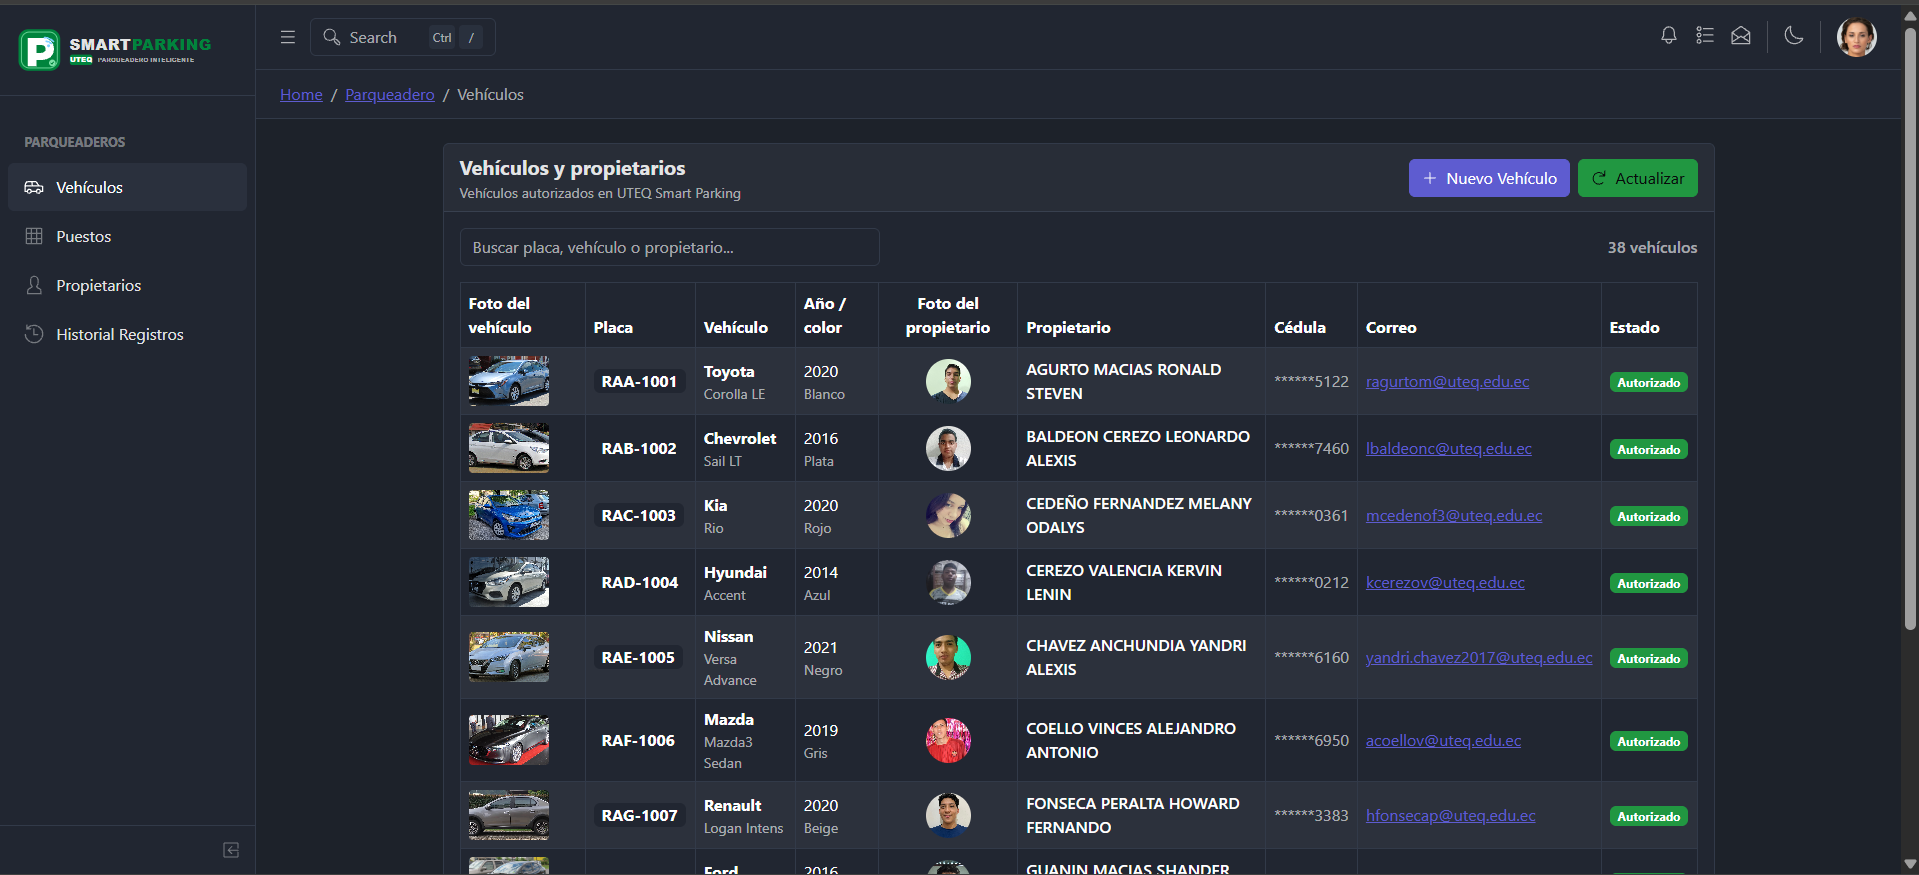
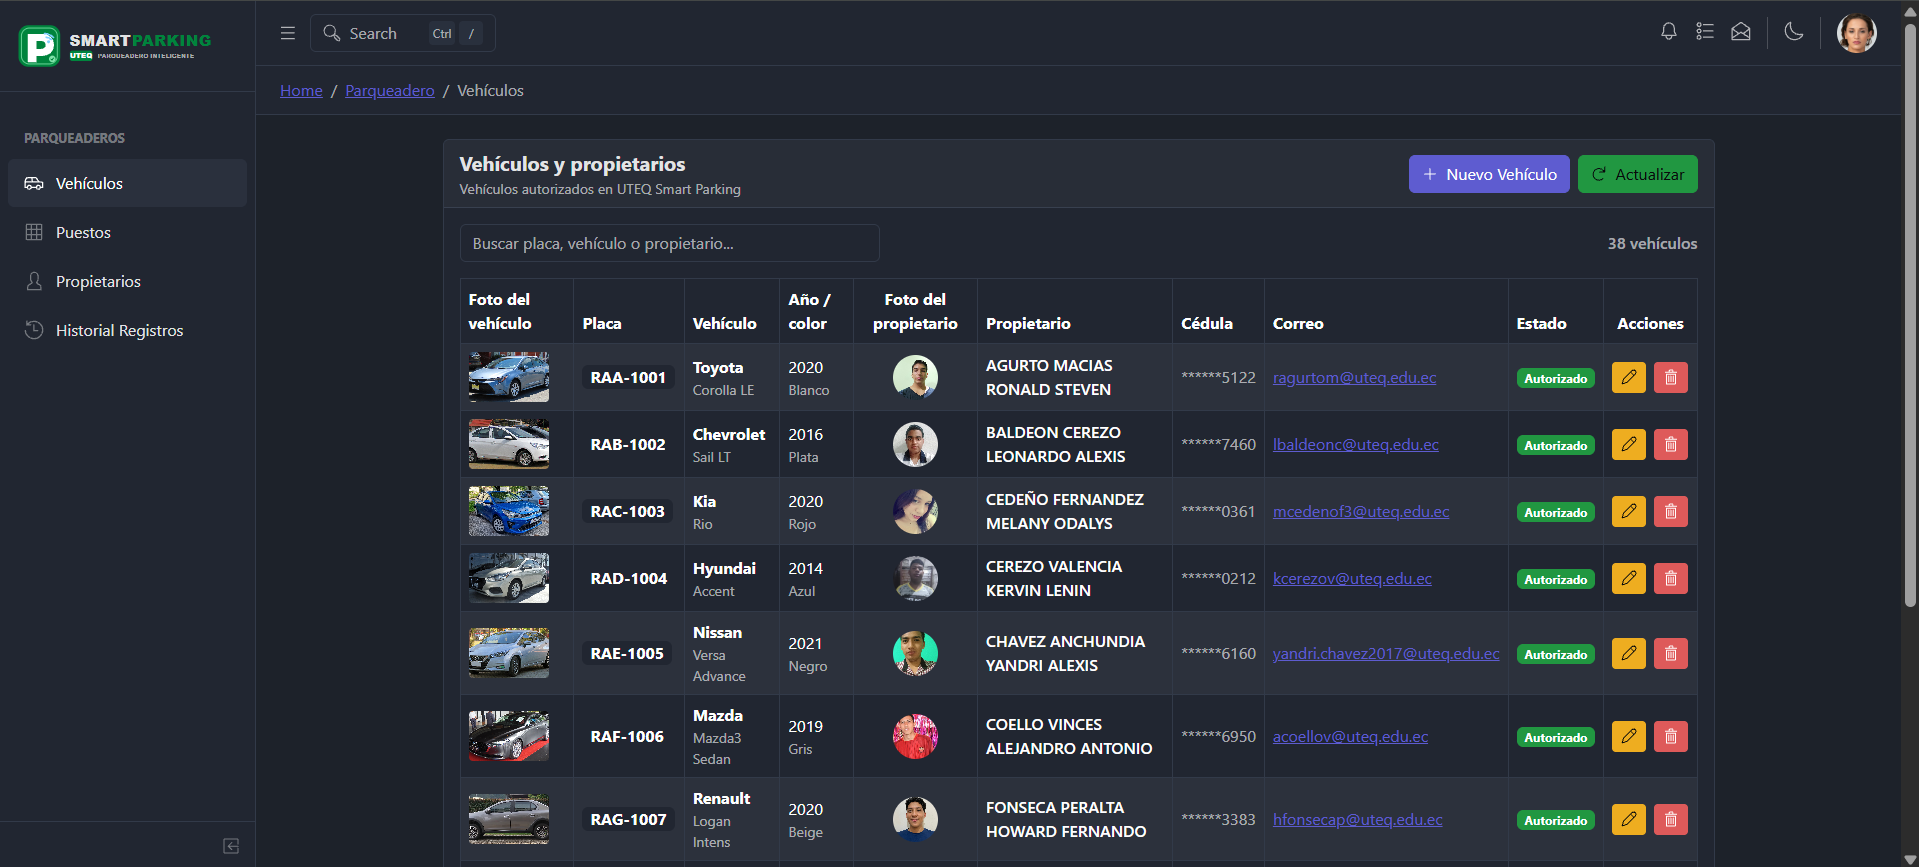
FIRST COMMIT

diff --git a/src/views/parqueadero/ListaVehiculos.jsx b/src/views/parqueadero/ListaVehiculos.jsx
@@ -282,6 +282,7 @@ const ListaVehiculos = () => {
                     <CTableHeaderCell className="text-white">Cédula</CTableHeaderCell>
                     <CTableHeaderCell className="text-white">Correo</CTableHeaderCell>
                     <CTableHeaderCell className="text-white">Estado</CTableHeaderCell>
+                    <CTableHeaderCell className="text-white text-center">Acciones</CTableHeaderCell>
                   </CTableRow>
                 )}
 
@@ -318,7 +319,7 @@ const ListaVehiculos = () => {
               <CTableBody>
                 {datosPaginados.length === 0 ? (
                   <CTableRow>
-                    <CTableDataCell colSpan={9} className="text-center py-4">
+                    <CTableDataCell colSpan={10} className="text-center py-4">
                       No se encontraron registros.
                     </CTableDataCell>
                   </CTableRow>
@@ -397,6 +398,30 @@ const ListaVehiculos = () => {
                             <CBadge color={item.autorizado !== false ? 'success' : 'danger'} className="px-2 py-1">
                               {item.autorizado !== false ? 'Autorizado' : 'No autorizado'}
                             </CBadge>
+                          </CTableDataCell>
+
+                          {/* Acciones */}
+                          <CTableDataCell className="text-center">
+                            <div className="d-flex justify-content-center gap-2">
+                              <CButton
+                                color="warning"
+                                size="sm"
+                                title="Editar"
+                                onClick={() => handleEditar(item)}
+                                disabled={procesando}
+                              >
+                                <CIcon icon={cilPencil} />
+                              </CButton>
+                              <CButton
+                                color="danger"
+                                size="sm"
+                                title="Eliminar"
+                                onClick={() => handleConfirmarEliminar(item)}
+                                disabled={procesando}
+                              >
+                                <CIcon icon={cilTrash} style={{ color: '#fff' }} />
+                              </CButton>
+                            </div>
                           </CTableDataCell>
                         </CTableRow>
                       )
